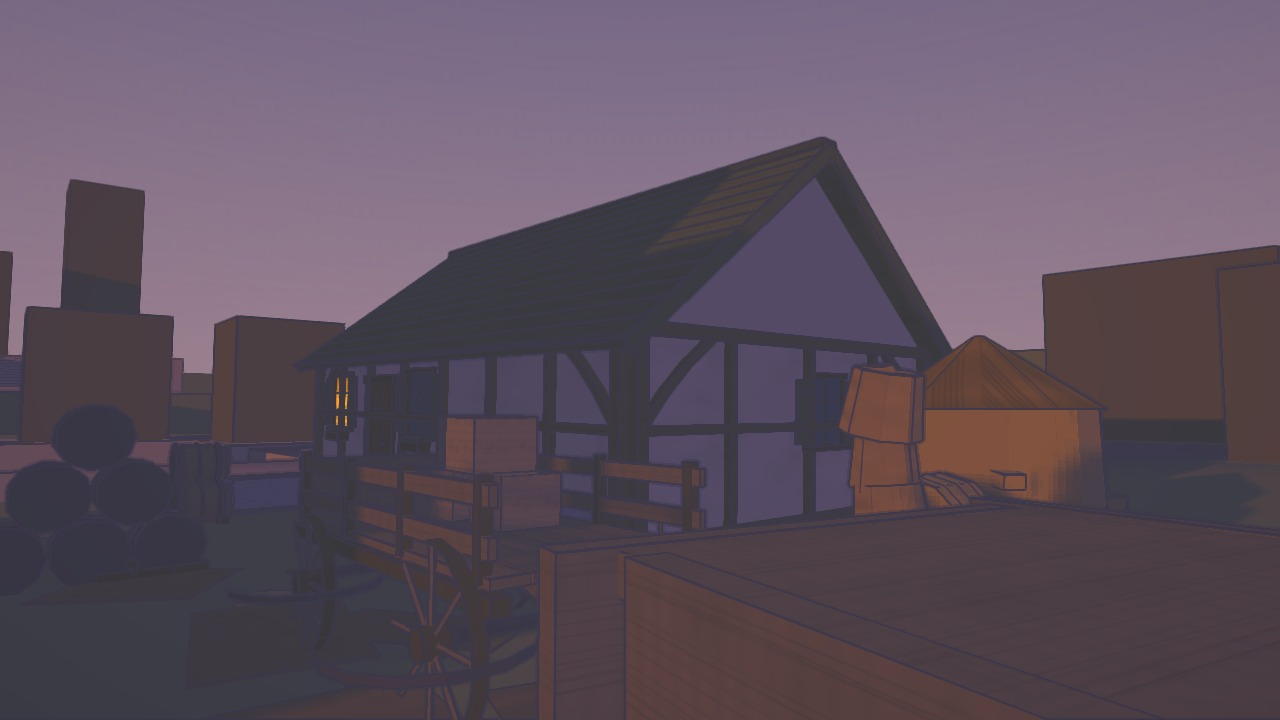
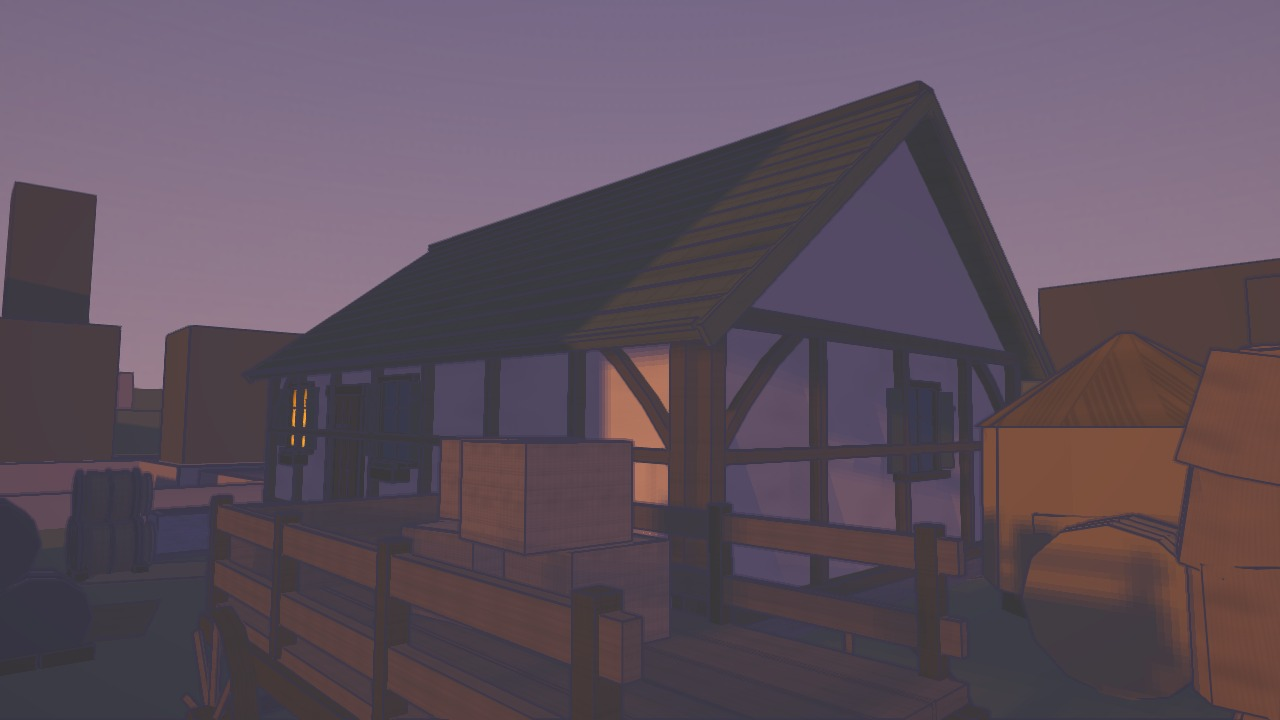
southgate: the wardens' lodge crosses the lane — it was millreach's arena
`the-mill` is approached from `south-gate`, so check-arena-visibility rays
every open cell of millreach's rect at this gate's three approach points —
and only one of the three is reachable from inside the town at all: (0, 58)
is behind the curtain and (0, 50) sits at y 6.00 (that gate samples
`groundAt(x, z)` with two arguments and the gatehouse deck is a platform).
So the whole number turned on what this square puts between the mill and
(0, 40).  Measured, by hiding one group's MESHES at a time:

    baseline                     75/292  25.7 %   (the floor is 40)
    minus the shooting stage     80/292  27.4 %
    minus the wardens' lodge    173/292  59.2 %
    minus every other mass       75/292  unchanged
    with (0, 50) at street level 77/292  26.4 %

The lodge was 98 of the 100 cells.  Nothing at x > 0 can block a mill ray
(every source is at x <= -20, the target is at 0), so the lodge crosses the
lane to (9.6, 35.4) facing -x, and the muster ground becomes what its name
says: open ground with the stage, the mantlet, the gabions and the racks on
it.  The well, the second barrel stack, the felled cart and the east lamp
move with it; the well again, to 39.8, because at 36.6 its roof stood in
front of the lodge's own fascia from every spot you would read it from.

    arena:the-mill:visibility   175/292 = 60 %   (was 25.7)
    arena:gate-square:visibility 129/155 = 83 %  (unchanged)

and every southgate row of check-city, check-game, check-cameras,
[…]

diff --git a/hollowbrook/src/districts/southgate.js b/hollowbrook/src/districts/southgate.js
@@ -541,16 +541,44 @@ export const southgate = defineDistrict({
      *    lane between them left alone.
      * ================================================================ */
     /* the wardens' lodge.  Two storeys of granite under shingle, front
-     * (authored +z) turned to +x by yaw PI/2 so its door and its fascia
-     * address the muster ground and the lane — a shelter's door faces the
-     * arena.  Rotated footprint: x -15.0..-9.0, z 21.6..28.8. */
+     * (authored +z) turned to -x by yaw -PI/2 so its door and its fascia
+     * address the lane and the arch — a shelter's door faces the arena.
+     * Rotated footprint: x 6.6..12.6, z 31.8..39.0.
+     *
+     * IT STOOD AT (-12.0, 25.2) — the plan's own massing — AND THAT IS
+     * WHERE IT BROKE ANOTHER DISTRICT'S ARENA.  `the-mill`'s approach is
+     * `south-gate`, so `check-arena-visibility` rays every open cell of
+     * millreach's rect (x -47..-20, z -10..47) at the gate's three
+     * approach points; the only one of the three that is reachable from
+     * inside the town is (0, 40), in this square.  A 6 x 7.2 m block
+     * standing 19 m short of that point casts a shadow across a third of
+     * the mill.  Measured, by hiding one group's MESHES at a time:
+     *
+     *     baseline                     75/292  25.7 %   (floor is 40)
+     *     minus the shooting stage     80/292  27.4 %
+     *     minus the wardens' lodge    173/292  59.2 %
+     *     minus every other mass      unchanged
+     *
+     * Nothing at x > 0 can block a ray from the mill to (0, 40), because
+     * every source is at x <= -20 and the target is at 0.  So the lodge
+     * crosses the lane and the muster ground stays what its name says:
+     * open ground with the stage, the mantlet and the racks on it.
+     *
+     * TWO THINGS THIS COST TWO RUNS TO LEARN.  A group's `visible = false`
+     * does NOT hide its meshes, and the gate filters on `hit.object.
+     * visible` — so the first isolation run reported every candidate as
+     * worth exactly zero cells.  And the (0, 50) approach point sits at
+     * y 6.00 because `check-game`/`check-arena-visibility` sample
+     * `groundAt(x, z)` with two arguments and the gatehouse deck is a
+     * platform: that is a real bug, but it is worth 2 cells here, not 98.
+     * The lodge was the whole of it. */
     const lodge = cottage({
       seed: 'wardens-lodge', w: 7.2, d: 6.0, storeys: 2, groundH: 2.5, upperH: 2.2,
       wall: 'granite', roof: 'shingle', ridgeAxis: 'x', crook: 0.5,
       door: JOINERY.oakStain, shutter: JOINERY.doveGrey, shutters: 'mixed',
       chimney: true, litWindows: 2, jetty: 0,
     });
-    place(ctx, lodge, { x: -12.0, z: 25.2, yaw: Math.PI / 2, name: 'wardens-lodge' });
+    place(ctx, lodge, { x: 9.6, z: 35.4, yaw: -Math.PI / 2, name: 'wardens-lodge' });
 
     /* the stable.  Long and low, front turned to -x so it opens onto its
      * own yard and the lane.  Rotated footprint: x 8.8..14.4, z 18.5..27.5. */
@@ -610,8 +638,11 @@ export const southgate = defineDistrict({
       { box: boxAt(4.8, 32.8, 0.75, 0.6) });
     put(sackStack({ seed: 'carrier-sacks', n: 5 }), 8.2, 30.6, 'carrier-sacks',
       { box: boxAt(8.2, 30.6, 0.4, 0.4) });
-    put(wellHead({ seed: 'gate-well', r: 0.85, h: 0.76, roof: true, bucket: true }), 8.4, 34.8, 'gate-well',
-      { box: boxAt(8.4, 34.8, 1.1, 1.1) });
+    /* the well is at 39.8 and not 36.6: at 36.6 its roof stood squarely in
+     * front of the lodge's fascia from every spot in the square you would
+     * read the sign from. */
+    put(wellHead({ seed: 'gate-well', r: 0.85, h: 0.76, roof: true, bucket: true }), 4.8, 39.8, 'gate-well',
+      { box: boxAt(4.8, 39.8, 1.1, 1.1) });
     put(barrelStack({ seed: 'stable-barrels-a', rows: 3 }), 4.9, 24.2, 'stable-barrels-a',
       { ry: Math.PI / 2, box: boxAt(4.9, 24.2, 0.62, 1.0) });
     put(barrelStack({ seed: 'stable-barrels-b', rows: 2 }), 6.4, 20.6, 'stable-barrels-b',
@@ -655,10 +686,10 @@ export const southgate = defineDistrict({
      * player driven off the lane has cover on BOTH sides of it. */
     put(barrelStack({ seed: 'gate-barrels-a', rows: 3 }), 6.8, 41.5, 'gate-barrels-a',
       { ry: Math.PI / 2, box: boxAt(6.8, 41.5, 0.62, 1.0) });
-    put(barrelStack({ seed: 'gate-barrels-b', rows: 2 }), 8.0, 39.6, 'gate-barrels-b',
-      { box: boxAt(8.0, 39.6, 1.0, 0.62) });
+    put(barrelStack({ seed: 'gate-barrels-b', rows: 2 }), 8.6, 41.2, 'gate-barrels-b',
+      { box: boxAt(8.6, 41.2, 1.0, 0.62) });
     placeCover(ctx, siegeProps.felledCart({ seed: 'gate-felled-cart' }),
-      { x: 13.0, z: 39.2, yaw: Math.PI / 2, name: 'gate-felled-cart' });
+      { x: 13.4, z: 41.6, yaw: Math.PI / 2, name: 'gate-felled-cart' });
 
     /* -- ten minutes ago: the wardens were barring the gate.  The draw bar
      *    is out of its sockets and leaning on the west pier, with the crow
@@ -765,18 +796,18 @@ export const southgate = defineDistrict({
      *    gates, and the bell drawn on it is a bell.
      * ================================================================ */
     {
-      const faceX = -9.0;   // the lodge's +x elevation, after its yaw
+      const faceX = 6.6;    // the lodge's -x elevation, after its yaw
       const board = signKit.fasciaBoard({
         tenant: 'wardensHollowbrook', w: 3.4, h: 0.68, seed: 'wardens-fascia', corbels: true,
       });
-      board.position.set(faceX + 0.02, G(faceX, 25.2) + 2.74, 25.2);
-      board.rotation.y = Math.PI / 2;
+      board.position.set(faceX - 0.02, G(faceX, 35.4) + 2.74, 35.4);
+      board.rotation.y = -Math.PI / 2;
       board.userData.airborne = true;
       ctx.add(board, 'wardens-fascia');
 
       const note = signKit.wallNotice({ notice: 'rota', w: 0.62, h: 0.82, seed: 'wardens-rota' });
-      note.position.set(faceX + 0.02, G(faceX, 27.4) + 1.62, 27.4);
-      note.rotation.y = Math.PI / 2;
+      note.position.set(faceX - 0.02, G(faceX, 37.6) + 1.62, 37.6);
+      note.rotation.y = -Math.PI / 2;
       note.userData.airborne = true;
       ctx.add(note, 'wardens-rota');
 
@@ -787,7 +818,7 @@ export const southgate = defineDistrict({
       put(stand, -7.2, 28.4, 'gate-notices', { ry: Math.PI / 2, box: boxAt(-7.2, 28.4, 0.24, 0.78) });
     }
     // the square's two lamps, lit — one each side of the lane, well off it
-    for (const [tag, x, z] of [['w', -4.9, 31.4], ['e', 4.9, 36.8]]) {
+    for (const [tag, x, z] of [['w', -4.9, 31.4], ['e', 4.4, 31.2]]) {
       put(postLantern({ seed: `square-lamp-${tag}`, h: 2.8, lit: true, arm: true }), x, z, `square-lamp-${tag}`,
         { box: boxAt(x, z, 0.22, 0.22) });
     }

diff --git a/hollowbrook/final-evidence/southgate/NOTES.md b/hollowbrook/final-evidence/southgate/NOTES.md
@@ -22,7 +22,8 @@ is a neighbour's `massing` stub, not a building.
 | `play-07-wallwalk-onto-the-arena` | (−6, 50) → down | the walk down onto the arena |
 | `play-08-muster-ground` | the square → west | the west cover cluster: mantlet, gabions, spear rack, trough, the shooting stage |
 | `play-09-shooting-stage-on-it` | ON the stage, 0.86 m | the arena's own high ground, looking at the gate it covers |
-| `play-10-stable-yard` | the square → east | the east cover cluster: the carrier's cart, the well, the barrels, the rick |
+| `play-10-stable-yard` | the square → east | the stable, the rick, the carrier's cart, the barrels |
+| `play-13-the-wardens-lodge` | the square → the lodge | the fascia, THE WATCH notice and the well — and the reason the lodge is east of the lane (below) |
 | `play-11-low-at-the-towers` | the road, eye 0.45 | the roofline, low |
 | `play-12-the-company-camp` | the spawn ring | the enemy's camp, and the only `ACCENT.companyRust` in the world |
 | `wp-1`…`wp-5` | the plan's five waypoints | each reached by the flood fill (see `GATE-check-city-southgate.txt`) |
@@ -71,7 +72,34 @@ and why none of them is fixable from inside this district:
    `passage:south-gate:width 5.05 m`), and so do `check-game`'s
    `gate:south-gate:passage-open` and check-city's fill.
 
-5. **`GATE-check-siege.txt`: `surrounds:under-wall — 4 of 188 blocked`.**
+5. **`the-mill`'s visibility was 25.7 % and the cause was in THIS district.**
+   millreach's arena is approached from `south-gate`, so
+   `check-arena-visibility` rays every open cell of its rect at the gate's
+   three approach points — and of the three, only (0, 40) is reachable
+   from inside the town at all: (0, 58) is behind the curtain wall, and
+   (0, 50) sits at **y 6.00** because that gate samples `groundAt(x, z)`
+   with two arguments and the gatehouse deck is a platform. So the whole
+   number turns on how much of this square stands between the mill and one
+   point. Measured by hiding one group's MESHES at a time (hiding the
+   GROUP does nothing — the gate filters on `hit.object.visible`, and a
+   group's flag does not reach its children; the first isolation run
+   reported every candidate as worth zero):
+
+   | | cells | |
+   |---|---|---|
+   | baseline | 75/292 | 25.7 % |
+   | minus the shooting stage | 80/292 | 27.4 % |
+   | **minus the wardens' lodge** | **173/292** | **59.2 %** |
+   | minus every other southgate mass | 75/292 | 25.7 % |
+   | with (0, 50) at street level | 77/292 | 26.4 % |
+
+   The lodge was 98 of the 100 cells. Nothing at x > 0 can block a ray
+   from the mill (every source x ≤ −20) to (0, 40), so the lodge crossed
+   the lane to (9.6, 35.4) and the muster ground became what its name
+   says. `arena:the-mill:visibility` now reads **175/292 = 60 %**, and
+   `arena:gate-square` is unchanged at 84 %.
+
+6. **`GATE-check-siege.txt`: `surrounds:under-wall — 4 of 188 blocked`.**
    The two mural drums flanking the gate project into the ditch, so the
    1.4 m strip at the wall's foot is closed where they stand. That is what
    a mural tower does, and the alternatives were measured: inside the wall
